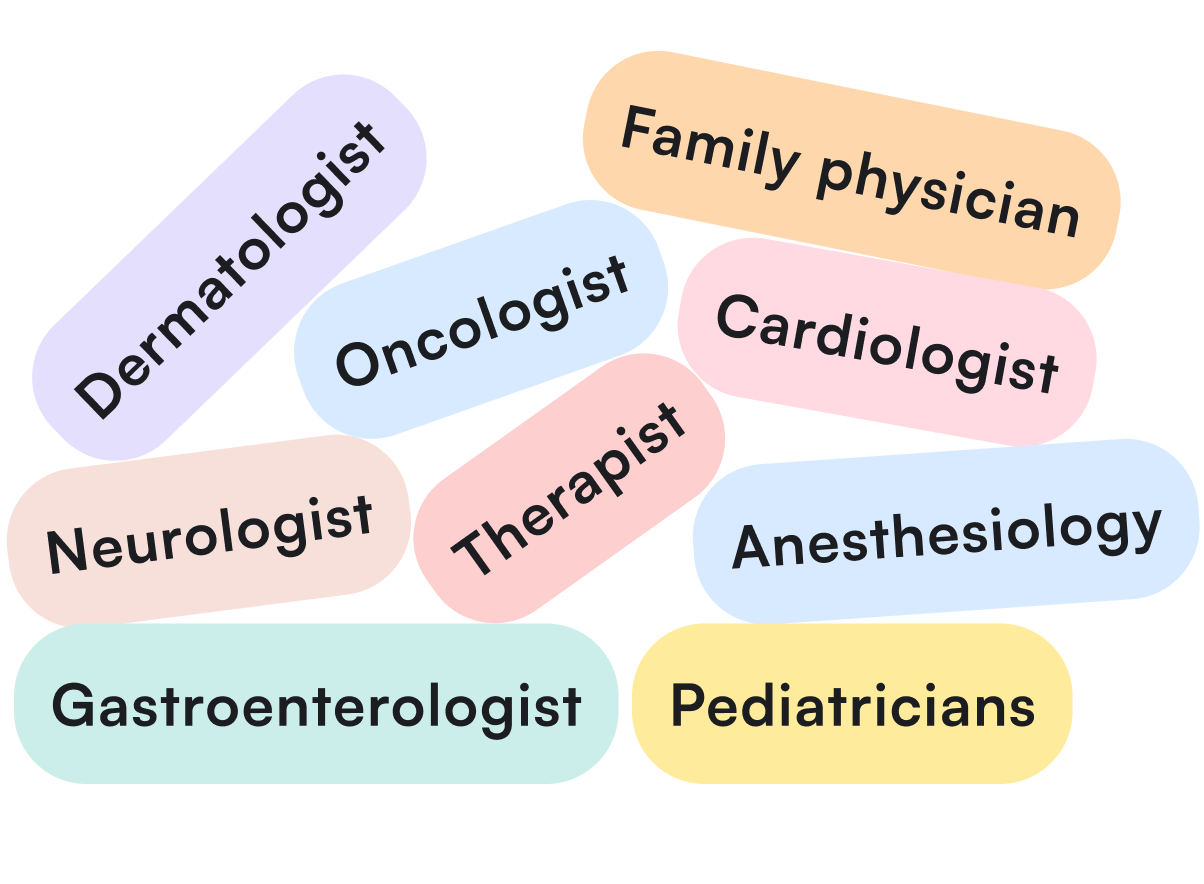
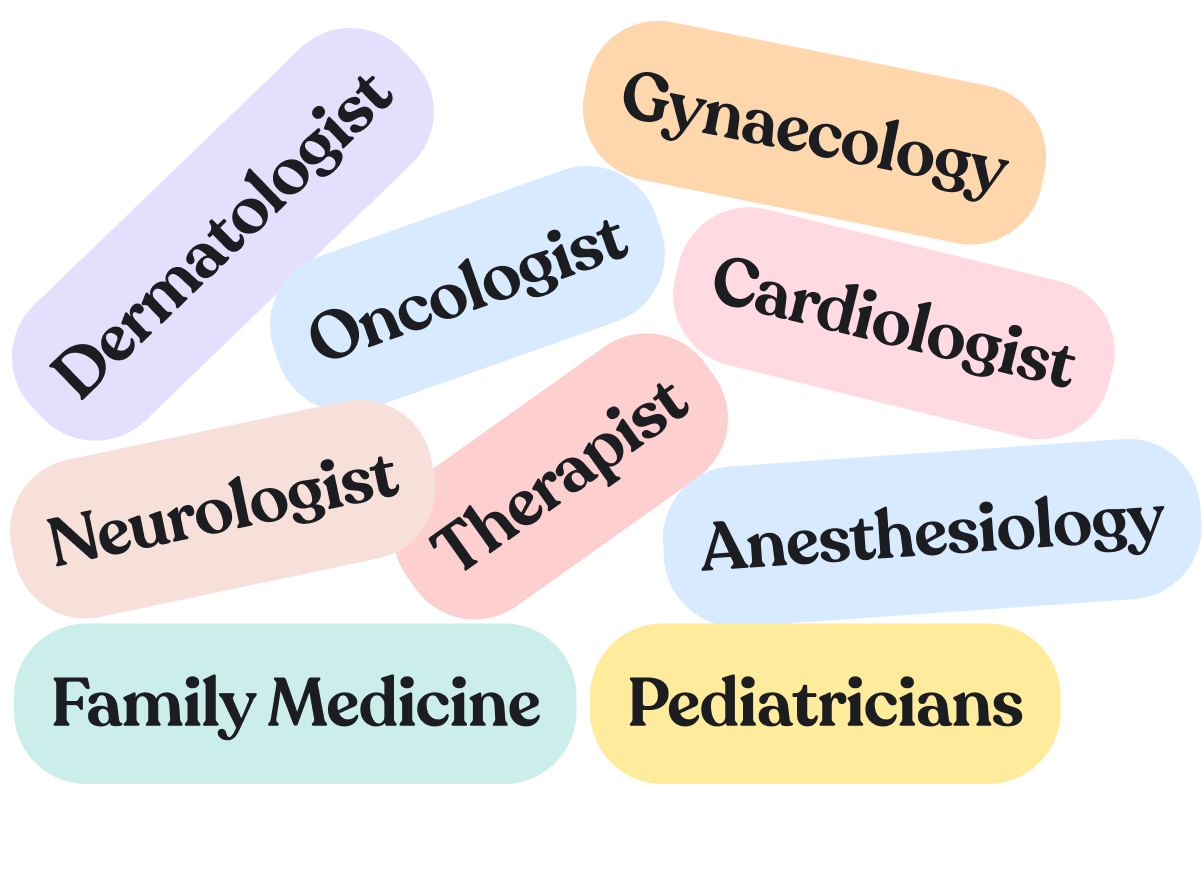
as

Changed region(s): [[0.0, 0.0, 0.9834, 0.8857]]

diff --git a/components/navbar.tsx b/components/navbar.tsx
@@ -95,18 +95,18 @@ export default function EnhancedNavbar() {
         "Access health care anytime, anywhere through virtual consultations",
     },
     {
-      label: "Book a Scan",
-      href: "/individual/scan",
-      image: "/images/book-a-scan.jpg",
-      description:
-        "Discover our expert radiology services for accurate imaging and timely diagnosis.",
-    },
-    {
       label: "Book a Test",
       href: "/individual/book-a-test",
       image: "/images/book-a-test.jpg",
       description:
         "Lab tests at home or in person, with results you can trust.",
+    },
+    {
+      label: "Book a Scan",
+      href: "/individual/scan",
+      image: "/images/book-a-scan.jpg",
+      description:
+        "Discover our expert radiology services for accurate imaging and timely diagnosis.",
     },
   ];
 

diff --git a/components/book-appointment.tsx b/components/book-appointment.tsx
@@ -137,7 +137,7 @@ export default function BookAppointment() {
                       }
                       imageContainerRefs.current[index][imgIdx] = el;
                     }}
-                    className="w-full relative h-[290px] max-w-sm md:max-w-md mx-auto rounded-t-2xl"
+                    className="w-full relative h-[330px] max-w-sm md:max-w-md mx-auto rounded-t-2xl"
                   >
                     <Image
                       src={imgSrc || "/placeholder.svg"}
